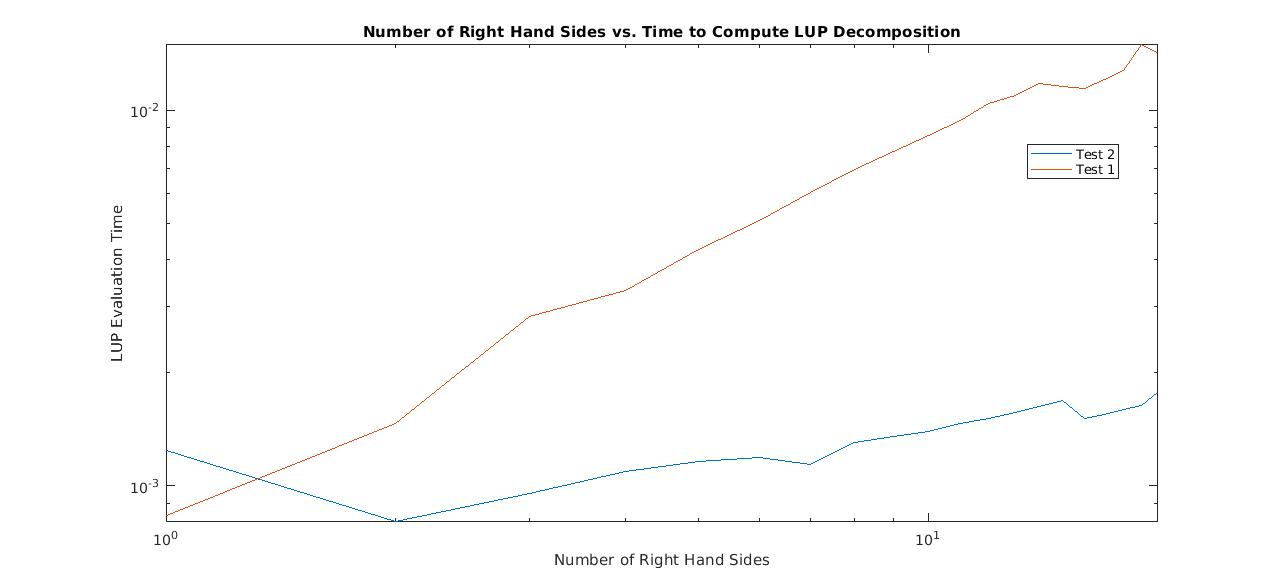
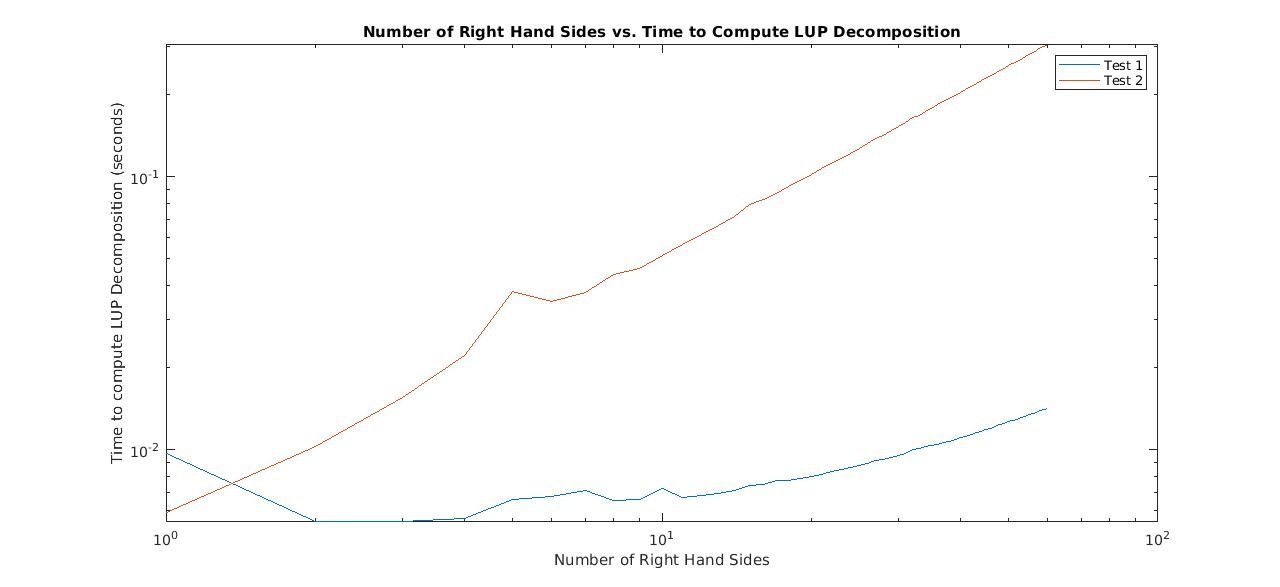
cleaned up some stuff

diff --git a/LU Decomposition/TimingTests.m b/LU Decomposition/TimingTests.m
@@ -10,7 +10,7 @@ clc;
 
 % Define a value for N which will be used for determining the dimensions of
 % the N x N matrix
-N = 20;
+N = 60;
 
 % Initialize a random matrix A with N x N dimensions
 A = rand(N,N);
@@ -19,13 +19,14 @@ A = rand(N,N);
 nrhs = 1:N;
 
 % Define the time vectors 
-time_test1 = zeros(length(nrhs)',1);
-time_test2 = zeros(length(nrhs)',1);
+time_test1 = zeros(length(nrhs),1);
+time_test2 = zeros(length(nrhs),1);
 
 for i = 1:length(nrhs)
     
     % Create a new B vector
     B = rand(N, nrhs(i));
+    
     % create vectors with N rows and i columns
     X1 = zeros(N, nrhs(i));
     X2 = zeros(N, nrhs(i));
@@ -46,6 +47,7 @@ for i = 1:length(nrhs)
     time_test1(i) = toc;
     
     % Timing Test 2
+    % start the timer
     tic
         for j = 1:nrhs(i)
              [L, U, P] = lup(A);
